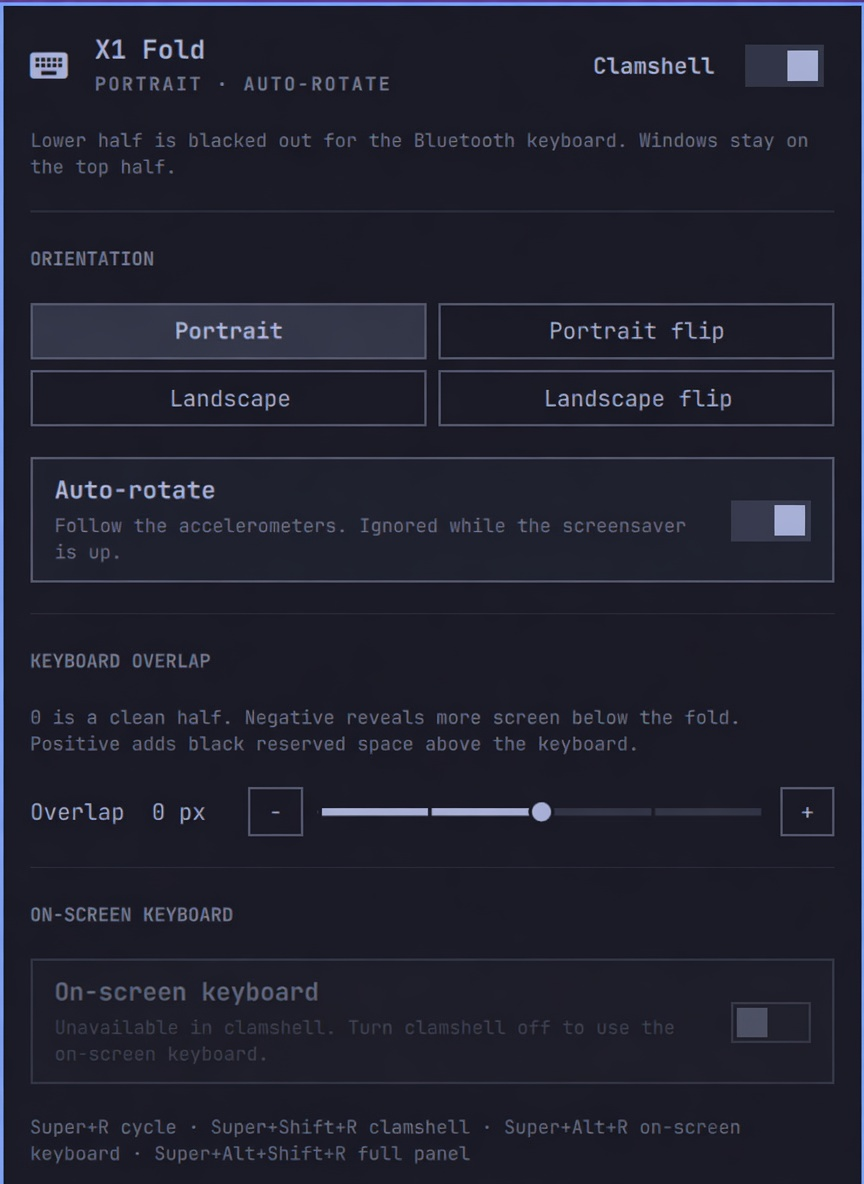
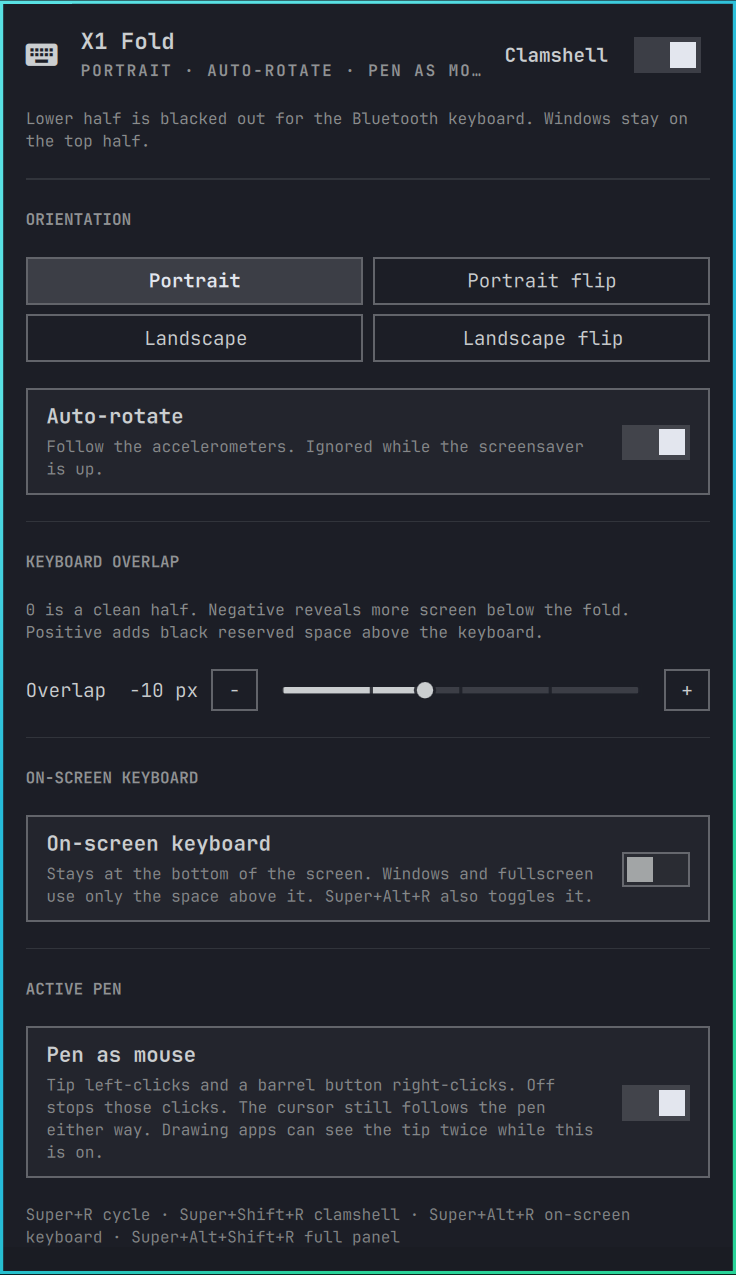
Update the settings panel screenshot and add a marketplace preview.

Changed region(s): [[0.0, 0.0, 1.0, 1.0], [0.375, 0.5312, 0.875, 0.5625], [0.8125, 0.5938, 0.8438, 0.625]]

diff --git a/README.md b/README.md
@@ -8,7 +8,7 @@ Built with help from Grok. Your mileage may vary: this is one ThinkPad X1 Fold 1
 
 ![X1 Fold settings panel](screenshots/panel.png)
 
-<p align="center"><sub>Settings panel (Tokyo Night). Left-click the bar widget to open it.</sub></p>
+<p align="center"><sub>Settings panel (Event Horizon). Left-click the bar widget to open it.</sub></p>
 
 ## What it does
 
@@ -211,6 +211,7 @@ x1fold-plugin/
 ├── initcpio/              bluetoothkbd hook for LUKS
 ├── contrib/               Hyprland + menu snippets, the clamshell patch, and the pack battery command
 ├── setup.sh               Install / uninstall (builds the on-screen keyboard)
+├── preview.png            Marketplace card
 ├── screenshots/panel.png
 └── LICENSE                MIT
 ```
